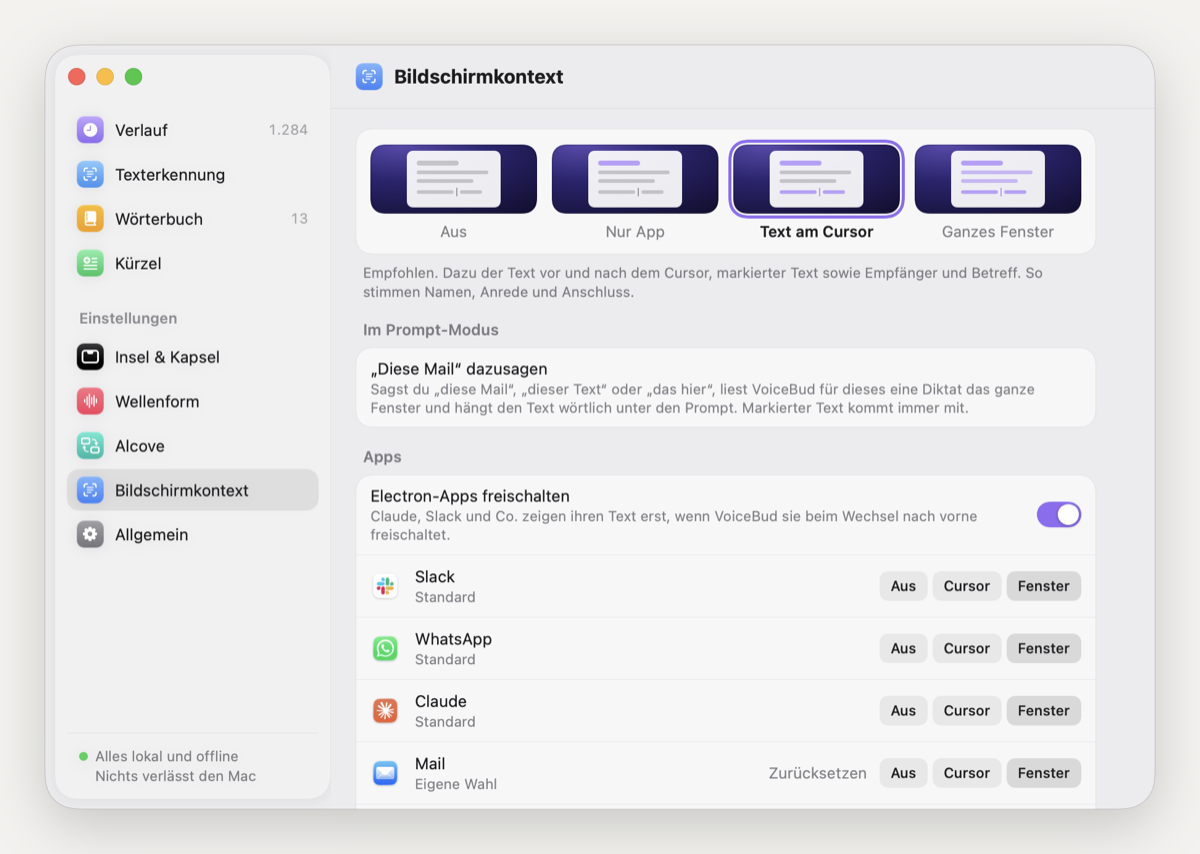
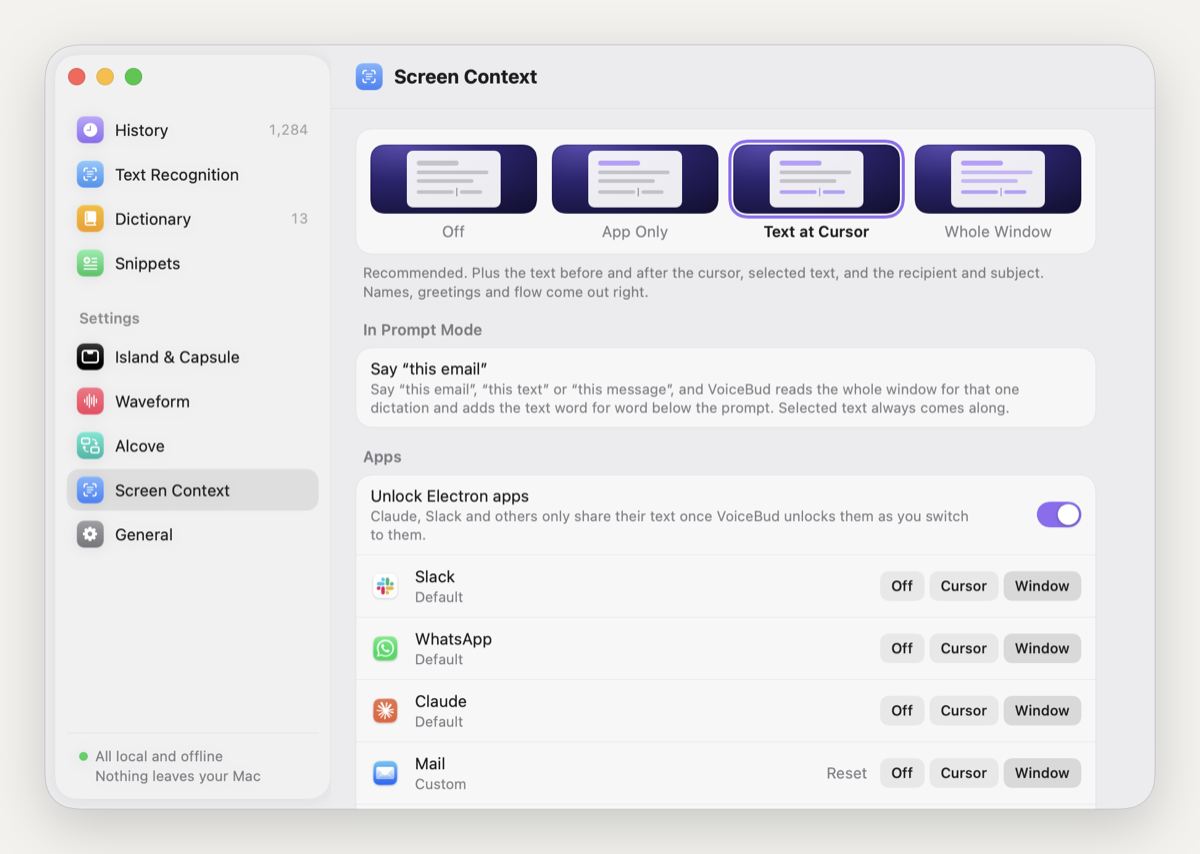
Setup: welcome first, then the language step; the app follows the macOS language until one is picked; README tour in English with a language section

diff --git a/ui/IslandRender.swift b/ui/IslandRender.swift
@@ -18,20 +18,40 @@ enum IslandRenderer {
     nonisolated static let crop = CGSize(width: 600, height: 220)
     static let notch = CGSize(width: 185, height: 32)
     static let speechBands: [Float] = [0.62, 0.85, 0.74, 0.55, 0.42, 0.30, 0.18]
-    static let liveSample = "Hallo Frau Becker, vielen Dank für die schnelle Rückmeldung. Den Termin am Donnerstag kann ich leider nicht wahrnehmen, nein, ich meine Freitag"
-    static let liveLong = "Kurz zum Stand der Endkarte: Die Abstände stimmen jetzt mit dem Serienlayout aus Video 1.1 überein, die Schrift ist eine Stufe kleiner und der Logoblock sitzt wieder auf der Grundlinie. Offen ist nur noch, ob der Hintergrund"
-    static let mailDone = DoneInfo(app: "Mail", words: 31, seconds: 0.6,
-                                   preview: "Hallo Frau Becker, vielen Dank für die schnelle Rückmeldung zum Termin am Freitag.",
-                                   toClipboard: false)
-    static let liveDone = DoneInfo(app: "Mail", words: 31, seconds: 0.7,
-                                   preview: "Hallo Frau Becker,\n\nvielen Dank für die schnelle Rückmeldung. Den Termin am Freitag kann ich leider nicht wahrnehmen. Würde Ihnen Montag um 10 Uhr passen?\n\nViele Grüße\nNils",
-                                   toClipboard: false)
-    static let clipDone = DoneInfo(app: "", words: 18, seconds: 0.5,
-                                   preview: "Bin in fünf Minuten da, fangt schon mal ohne mich an, die Unterlagen liegen im Teamordner.",
-                                   toClipboard: true)
+    // the sample texts follow the UI language (05.10.: the README shows the English app)
+    private static var en: Bool { Loc.shared.english }
+    static var liveSample: String { en
+        ? "Hi Ms Becker, thanks for the quick reply. I can't make the meeting on Thursday, no, I mean Friday"
+        : "Hallo Frau Becker, vielen Dank für die schnelle Rückmeldung. Den Termin am Donnerstag kann ich leider nicht wahrnehmen, nein, ich meine Freitag" }
+    static var liveLong: String { en
+        ? "Quick update on the end card: the spacing now matches the series layout from video 1.1, the type is one step smaller and the logo block sits on the baseline again. The only open point is whether the background"
+        : "Kurz zum Stand der Endkarte: Die Abstände stimmen jetzt mit dem Serienlayout aus Video 1.1 überein, die Schrift ist eine Stufe kleiner und der Logoblock sitzt wieder auf der Grundlinie. Offen ist nur noch, ob der Hintergrund" }
+    static var mailDone: DoneInfo { DoneInfo(app: "Mail", words: 31, seconds: 0.6,
+                                   preview: en ? "Hi Ms Becker, thanks for the quick reply about the meeting on Friday."
+                                               : "Hallo Frau Becker, vielen Dank für die schnelle Rückmeldung zum Termin am Freitag.",
+                                   toClipboard: false) }
+    static var liveDone: DoneInfo { DoneInfo(app: "Mail", words: 31, seconds: 0.7,
+                                   preview: en ? "Hi Ms Becker,\n\nthanks for the quick reply. Unfortunately I can't make the meeting on Friday. Would Monday at 10 am work for you?\n\nBest regards\nNils"
+                                               : "Hallo Frau Becker,\n\nvielen Dank für die schnelle Rückmeldung. Den Termin am Freitag kann ich leider nicht wahrnehmen. Würde Ihnen Montag um 10 Uhr passen?\n\nViele Grüße\nNils",
+                                   toClipboard: false) }
+    static var clipDone: DoneInfo { DoneInfo(app: "", words: 18, seconds: 0.5,
+                                   preview: en ? "Be there in five minutes, go ahead and start without me, the documents are in the team folder."
+                                               : "Bin in fünf Minuten da, fangt schon mal ohne mich an, die Unterlagen liegen im Teamordner.",
+                                   toClipboard: true) }
 
     /// hovered confirmations (SPEC §0, 03.10.): a long multi-paragraph mail that needs the fade
-    static let longMail = """
+    static var longMail: String { en ? """
+        Hi Ms Becker,
+
+        thanks for the quick reply and the revised documents. Unfortunately I can't make the meeting on Friday, as I'm with a client in Frankfurt all morning that day.
+
+        Would Monday at 10 am work for you instead? Then we could go through the open points on the end card, the series layout and the schedule for the next three videos in peace. I'll send you a short list beforehand so we're both well prepared.
+
+        If Monday doesn't work, Tuesday afternoon from 2 pm would be fine too. I'll put the rough cut of video 1.4 in our shared folder tonight, the subtitles follow tomorrow morning.
+
+        Best regards
+        Nils
+        """ : """
         Hallo Frau Becker,
 
         vielen Dank für die schnelle Rückmeldung und die überarbeiteten Unterlagen. Den Termin am Freitag kann ich leider nicht wahrnehmen, weil ich an dem Tag den ganzen Vormittag beim Kunden in Frankfurt bin.
@@ -42,12 +62,16 @@ enum IslandRenderer {
 
         Viele Grüße
         Nils
-        """
-    static let clipText = """
+        """ }
+    static var clipText: String { en ? """
+        Be there in five minutes, go ahead and start without me. The documents are in the team folder under "General Assembly", the slides are up to date.
+
+        See you soon
+        """ : """
         Bin in fünf Minuten da, fangt schon mal ohne mich an. Die Unterlagen liegen im Teamordner unter „Vollversammlung“, die Folien sind auf dem neuesten Stand.
 
         Bis gleich
-        """
+        """ }
 
     static func hoverDone(_ text: String, app: String = "Mail", seconds: Double = 0.7, clipboard: Bool = false,
                      keepLines: Bool = false) -> DoneInfo {
@@ -96,7 +120,8 @@ enum IslandRenderer {
             Scene(name: "ocr-tabelle-erkannt") { _, m in
                 m.phase = .done; m.mode = .ocr
                 m.done = DoneInfo(app: "Tabelle erkannt", words: 74, seconds: 0.4,
-                                  preview: "Projektstand Oktober Die Prüfung der Übergabeunterlagen ist weitgehend …",
+                                  preview: en ? "Project status October The review of the handover documents is largely …"
+                                              : "Projektstand Oktober Die Prüfung der Übergabeunterlagen ist weitgehend …",
                                   toClipboard: true)
             },
             Scene(name: "kompakt-recording-fein") { s, m in m.phase = .recording; s.settings.waveStyle = .fein },

diff --git a/ui/HubRender.swift b/ui/HubRender.swift
@@ -83,13 +83,20 @@ enum HubRenderer {
             model.previewExpanded = [first.id]
         }
         model.previewHoverTerm = "myPACE"
+        model.previewSnippets = Loc.shared.english
+            ? [["trigger": "my signature", "text": "Best regards\nAlex Weber\nProduct Team"],
+               ["trigger": "my address", "text": "Hauptstraße 12, 60311 Frankfurt am Main"]]
+            : [["trigger": "meine Signatur", "text": "Viele Grüße\nAlex Weber\nProduktteam"],
+               ["trigger": "meine Adresse", "text": "Hauptstraße 12, 60311 Frankfurt am Main"]]
         return model
     }
 
-    private static let sampleTerms = [
-        "AI-Slop", "shadcn", "FS-SC", "Alvantiq", "myPACE", "ACAR", "Repo", "Slides",
-        "Excel-Sheet", "To-do-Liste", "Deadline", "Feedback", "deployen",
-    ]
+    // the samples follow the UI language (05.10.: the README shows the English app)
+    private static var sampleTerms: [String] { Loc.shared.english
+        ? ["AI slop", "shadcn", "FS-SC", "Alvantiq", "myPACE", "ACAR", "repo", "slides",
+           "Excel sheet", "to-do list", "deadline", "feedback", "deploy"]
+        : ["AI-Slop", "shadcn", "FS-SC", "Alvantiq", "myPACE", "ACAR", "Repo", "Slides",
+           "Excel-Sheet", "To-do-Liste", "Deadline", "Feedback", "deployen"] }
 
     private static func sampleEntries() -> [HistoryEntry] {
         let cal = Calendar.current
@@ -98,7 +105,7 @@ enum HubRenderer {
             cal.date(byAdding: DateComponents(day: dayOffset, hour: h, minute: m), to: today) ?? today
         }
         func words(_ s: String) -> Int { s.split(whereSeparator: \.isWhitespace).count }
-        let rows: [(Date, Mode, String, String, String, Double)] = [
+        let german: [(Date, Mode, String, String, String, Double)] = [
             (at(0, 9, 41), .dictate, "Mail",
              "Hallo Frau Becker, vielen Dank für die schnelle Rückmeldung. Den Termin am Freitag kann ich leider nicht wahrnehmen. Würde Ihnen Montag um 10 Uhr passen?",
              "ähm hallo frau becker vielen dank für die schnelle rückmeldung den termin am donnerstag nein ich meine freitag kann ich leider nicht so wahrnehmen würde ihnen halt montag um 10 uhr passen",
@@ -124,9 +131,36 @@ enum HubRenderer {
              "kannst du mir das protokoll von der vollversammlung in fünf stichpunkten zusammenfassen und die offenen entscheidungen markieren",
              1.2),
         ]
+        let english: [(Date, Mode, String, String, String, Double)] = [
+            (at(0, 9, 41), .dictate, "Mail",
+             "Hi Ms Becker, thanks for the quick reply. Unfortunately I can't make the meeting on Friday. Would Monday at 10 am work for you?",
+             "uhm hi ms becker thanks for the quick reply unfortunately i can't make the meeting on thursday no i mean friday would monday at 10 am work for you",
+             0.7),
+            (at(0, 9, 15), .prompt, "Claude",
+             "Role: You are an experienced motion designer. Task: Revise the end card of video 1.2 so it matches the series layout from 1.1 exactly. Pay attention to spacing, type sizes and the timing of the fade-in.",
+             "okay so you're a motion designer and you should revise the end card of video one point two so it looks exactly like the series layout from one one so spacing type sizes and the timing",
+             1.9),
+            (at(0, 8, 58), .dictate, "Slack",
+             "Be there in 5 minutes, go ahead and start without me.",
+             "be there in five minutes go ahead and start without me",
+             0.3),
+            (at(-1, 18, 22), .dictate, "Notes",
+             "Weekend shopping: coffee beans (single origin), oat milk, bread from the bakery.",
+             "uh weekend shopping coffee beans single origin oat milk and bread from the bakery",
+             0.4),
+            (at(-1, 16, 5), .dictate, "Messages",
+             "Sounds good, I'll bring the projector.",
+             "sounds good i'll bring the projector",
+             0.3),
+            (at(-1, 11, 12), .prompt, "Claude",
+             "Summarise the minutes of the general assembly in five bullet points and mark open decisions.",
+             "can you summarise the minutes from the general assembly in five bullet points and mark the open decisions",
+             1.2),
+        ]
+        let rows = Loc.shared.english ? english : german
         return rows.enumerated().map { idx, r in
             HistoryEntry(id: Int64(100 - idx), date: r.0, mode: r.1, app: r.2, raw: r.4, final: r.3,
-                         lang: "de", audioSeconds: nil, totalSeconds: r.5, words: words(r.3))
+                         lang: Loc.shared.english ? "en" : "de", audioSeconds: nil, totalSeconds: r.5, words: words(r.3))
         }
     }
 }

diff --git a/ui/Onboarding.swift b/ui/Onboarding.swift
@@ -20,7 +20,7 @@ import SwiftUI
 @Observable
 final class OnboardingModel {
     enum Step: Int, CaseIterable, Identifiable {
-        case language, welcome, howItWorks, microphone, accessibility, inputMonitoring, models, testDictation,
+        case welcome, language, howItWorks, microphone, accessibility, inputMonitoring, models, testDictation,
              appearance, alcove, context, screenText, finish
 
         var id: Int { rawValue }
@@ -149,8 +149,8 @@ final class OnboardingModel {
     var alcove: AlcoveChoice = .auto
     var context: ContextLevel = .cursor
     var launchAtLogin = true
-    /// first step (05.10.): the app's texts and the dictation language
-    var uiLanguage: UILanguage = .en
+    /// second step (05.10.): the app's texts (as macOS until chosen) and the dictation language
+    var uiLanguage: UILanguage = .system
     var dictationLanguage: DictationLanguage = .auto
     var hotkeys: [String: String] = ["dictate": "ctrl+shift", "prompt": "ctrl+alt"]
 
@@ -2082,9 +2082,10 @@ struct OnboardingLevelBars: View {
 
 // MARK: - 8 Darstellung
 
-/// Step 1 (05.10., Nils): the app's language and the dictation language. New installs start in
-/// English with German dictation; the page switches language the moment it is chosen, and a line
-/// in the other language points to the switch for whoever cannot read this one.
+/// Step 2, right after the welcome (05.10., Nils): the app's language and the dictation language.
+/// Until chosen the app follows macOS (German on a German Mac, else English) and dictation detects
+/// the language per take; the page switches language the moment it is chosen, and a line in the
+/// other language points to the switch for whoever cannot read this one.
 struct OnboardingLanguage: View {
     let model: OnboardingModel
     @Environment(\.colorScheme) private var scheme
@@ -2108,7 +2109,7 @@ struct OnboardingLanguage: View {
                 OnboardingRow(L("App"), subtitle: L("Texte in Hub, Insel und Menü")) {
                     // each language in its own name, so it can be found in either language
                     HubSegmented(options: [(UILanguage.en, "English"), (.de, "Deutsch")],
-                                 selection: model.uiLanguage,
+                                 selection: model.uiLanguage == .system ? (Loc.shared.english ? .en : .de) : model.uiLanguage,
                                  select: { model.uiLanguage = $0; model.choicesChanged() })
                 }
                 HubSeparator()

diff --git a/ui/Hub.swift b/ui/Hub.swift
@@ -242,6 +242,8 @@ final class HubModel {
     var previewExpanded: Set<Int64> = []
     var previewHoverTerm: String?
     var previewAlcoveRunning: Bool?
+    /// renders only: the snippets list (ImageRenderer never runs onAppear, so the pane would be empty)
+    var previewSnippets: [[String: String]] = []
 
     @ObservationIgnored private let store: HistoryStore?
 
@@ -2877,14 +2879,15 @@ struct HubSnippetsPane: View {
                     }
                     .padding(12)
                 }
-                HubGroupLabel(items.count == 1 ? L("1 Kürzel") : L("%d Kürzel", items.count), top: 20)
+                let shown = isStatic ? model.previewSnippets : items
+                HubGroupLabel(shown.count == 1 ? L("1 Kürzel") : L("%d Kürzel", shown.count), top: 20)
                 HubCard {
-                    if items.isEmpty {
+                    if shown.isEmpty {
                         Text(L("Noch keine Kürzel."))
                             .font(.system(size: 13)).foregroundStyle(t.fg3)
                             .padding(.horizontal, 12).frame(height: 44, alignment: .leading)
                     }
-                    ForEach(Array(items.enumerated()), id: \.offset) { i, item in
+                    ForEach(Array(shown.enumerated()), id: \.offset) { i, item in
                         if i > 0 { HubSeparator() }
                         HubRow(item["trigger"] ?? "", subtitle: (item["text"] ?? "").replacingOccurrences(of: "\n", with: "  ")) {
                             HubChip(title: L("Entfernen")) { remove(i) }

diff --git a/ui/OnboardingBridge.swift b/ui/OnboardingBridge.swift
@@ -46,7 +46,7 @@ enum OnboardingBridge {
         m.mock = false
         m.hotkeys = state.hotkeys
         m.islandShape = state.settings.islandStyle == .kapsel ? .kapsel : .insel
-        m.uiLanguage = state.settings.uiLanguage == .de ? .de : .en
+        m.uiLanguage = state.settings.uiLanguage
         m.dictationLanguage = state.settings.dictationLanguage
         m.alcove = OnboardingModel.AlcoveChoice(rawValue: state.settings.alcove.rawValue) ?? .auto
         m.context = state.settings.contextLevel <= 1 ? .app : state.settings.contextLevel >= 3 ? .window : .cursor

diff --git a/ui/Model.swift b/ui/Model.swift
@@ -112,7 +112,7 @@ struct UISettings: Codable, Equatable {
     /// new installs: English texts and automatic dictation (recommended: German or English per
     /// take, short takes German), chosen in the first setup step (05.10.); an install from before
     /// the setting keeps German texts
-    var uiLanguage: UILanguage = .en
+    var uiLanguage: UILanguage = .system
     var dictationLanguage: DictationLanguage = .auto
 
     enum CodingKeys: String, CodingKey {

diff --git a/settings.py b/settings.py
@@ -26,7 +26,7 @@ DEFAULTS = {
     "screenText": True,          # Texterkennung with ⇧⌘2 (the UI owns the shortcut)
     "screenTextHistory": True,   # recognised texts in their own history (mode "ocr")
     "menuBarStyle": "schlicht",  # menu bar symbol while recording: schlicht | farbe | punkt | zeit (UI only)
-    "uiLanguage": "en",          # the app's texts: system | de | en (UI only)
+    "uiLanguage": "system",      # the app's texts: system (German on a German Mac, else English) | de | en
     "dictationLanguage": "auto", # what Whisper listens for: auto (de or en per take, recommended) | de | en
 }
 

diff --git a/tests/test_settings.py b/tests/test_settings.py
@@ -29,7 +29,7 @@ class LanguageDefaultsTest(unittest.TestCase):
 
     def test_new_install(self):
         s = self.load({})
-        self.assertEqual((s["uiLanguage"], s["dictationLanguage"]), ("en", "auto"))
+        self.assertEqual((s["uiLanguage"], s["dictationLanguage"]), ("system", "auto"))
 
     def test_install_from_before_keeps_its_languages(self):
         s = self.load({"onboardingDone": True, "liveText": False})

diff --git a/README.md b/README.md
@@ -11,11 +11,17 @@ Press `ctrl+shift` in any app → speak → press again → clean text appears a
 
 Built with Claude Code (planned with Opus 4.8, built with Fable 5).
 
-The interface is in German. Dictation works in German and English, and in a mix of both.
+The interface is in English or German: it follows your Mac's language until you pick one. Dictation works in German and English, and in a mix of both.
 
 ## A tour
 
 All screenshots below are rendered from the app itself.
+
+### Language
+
+Right after the welcome, setup asks for two languages: the app's own (English or German, preset from your Mac) and the language you dictate in. Automatic is recommended: it detects German or English for each take. Both can be changed later in the hub under General.
+
+![The language step in setup](docs/screenshots/setup-language.png)
 
 ### Dictation: `ctrl+shift`
 
@@ -94,7 +100,7 @@ From 5 seconds the island counts the seconds; from 10 seconds it says so and off
 
 ### The hub
 
-History with the original transcript next to the cleaned text, the dictionary, snippets, the look of the island, screen context per app and general settings. Open it from the microphone in the menu bar.
+History with the original transcript next to the cleaned text, the dictionary, snippets, the look of the island, screen context per app and general settings, including both languages. Open it from the microphone in the menu bar.
 
 ![History, with the original transcript unfolded](docs/screenshots/hub-verlauf.png)
 
